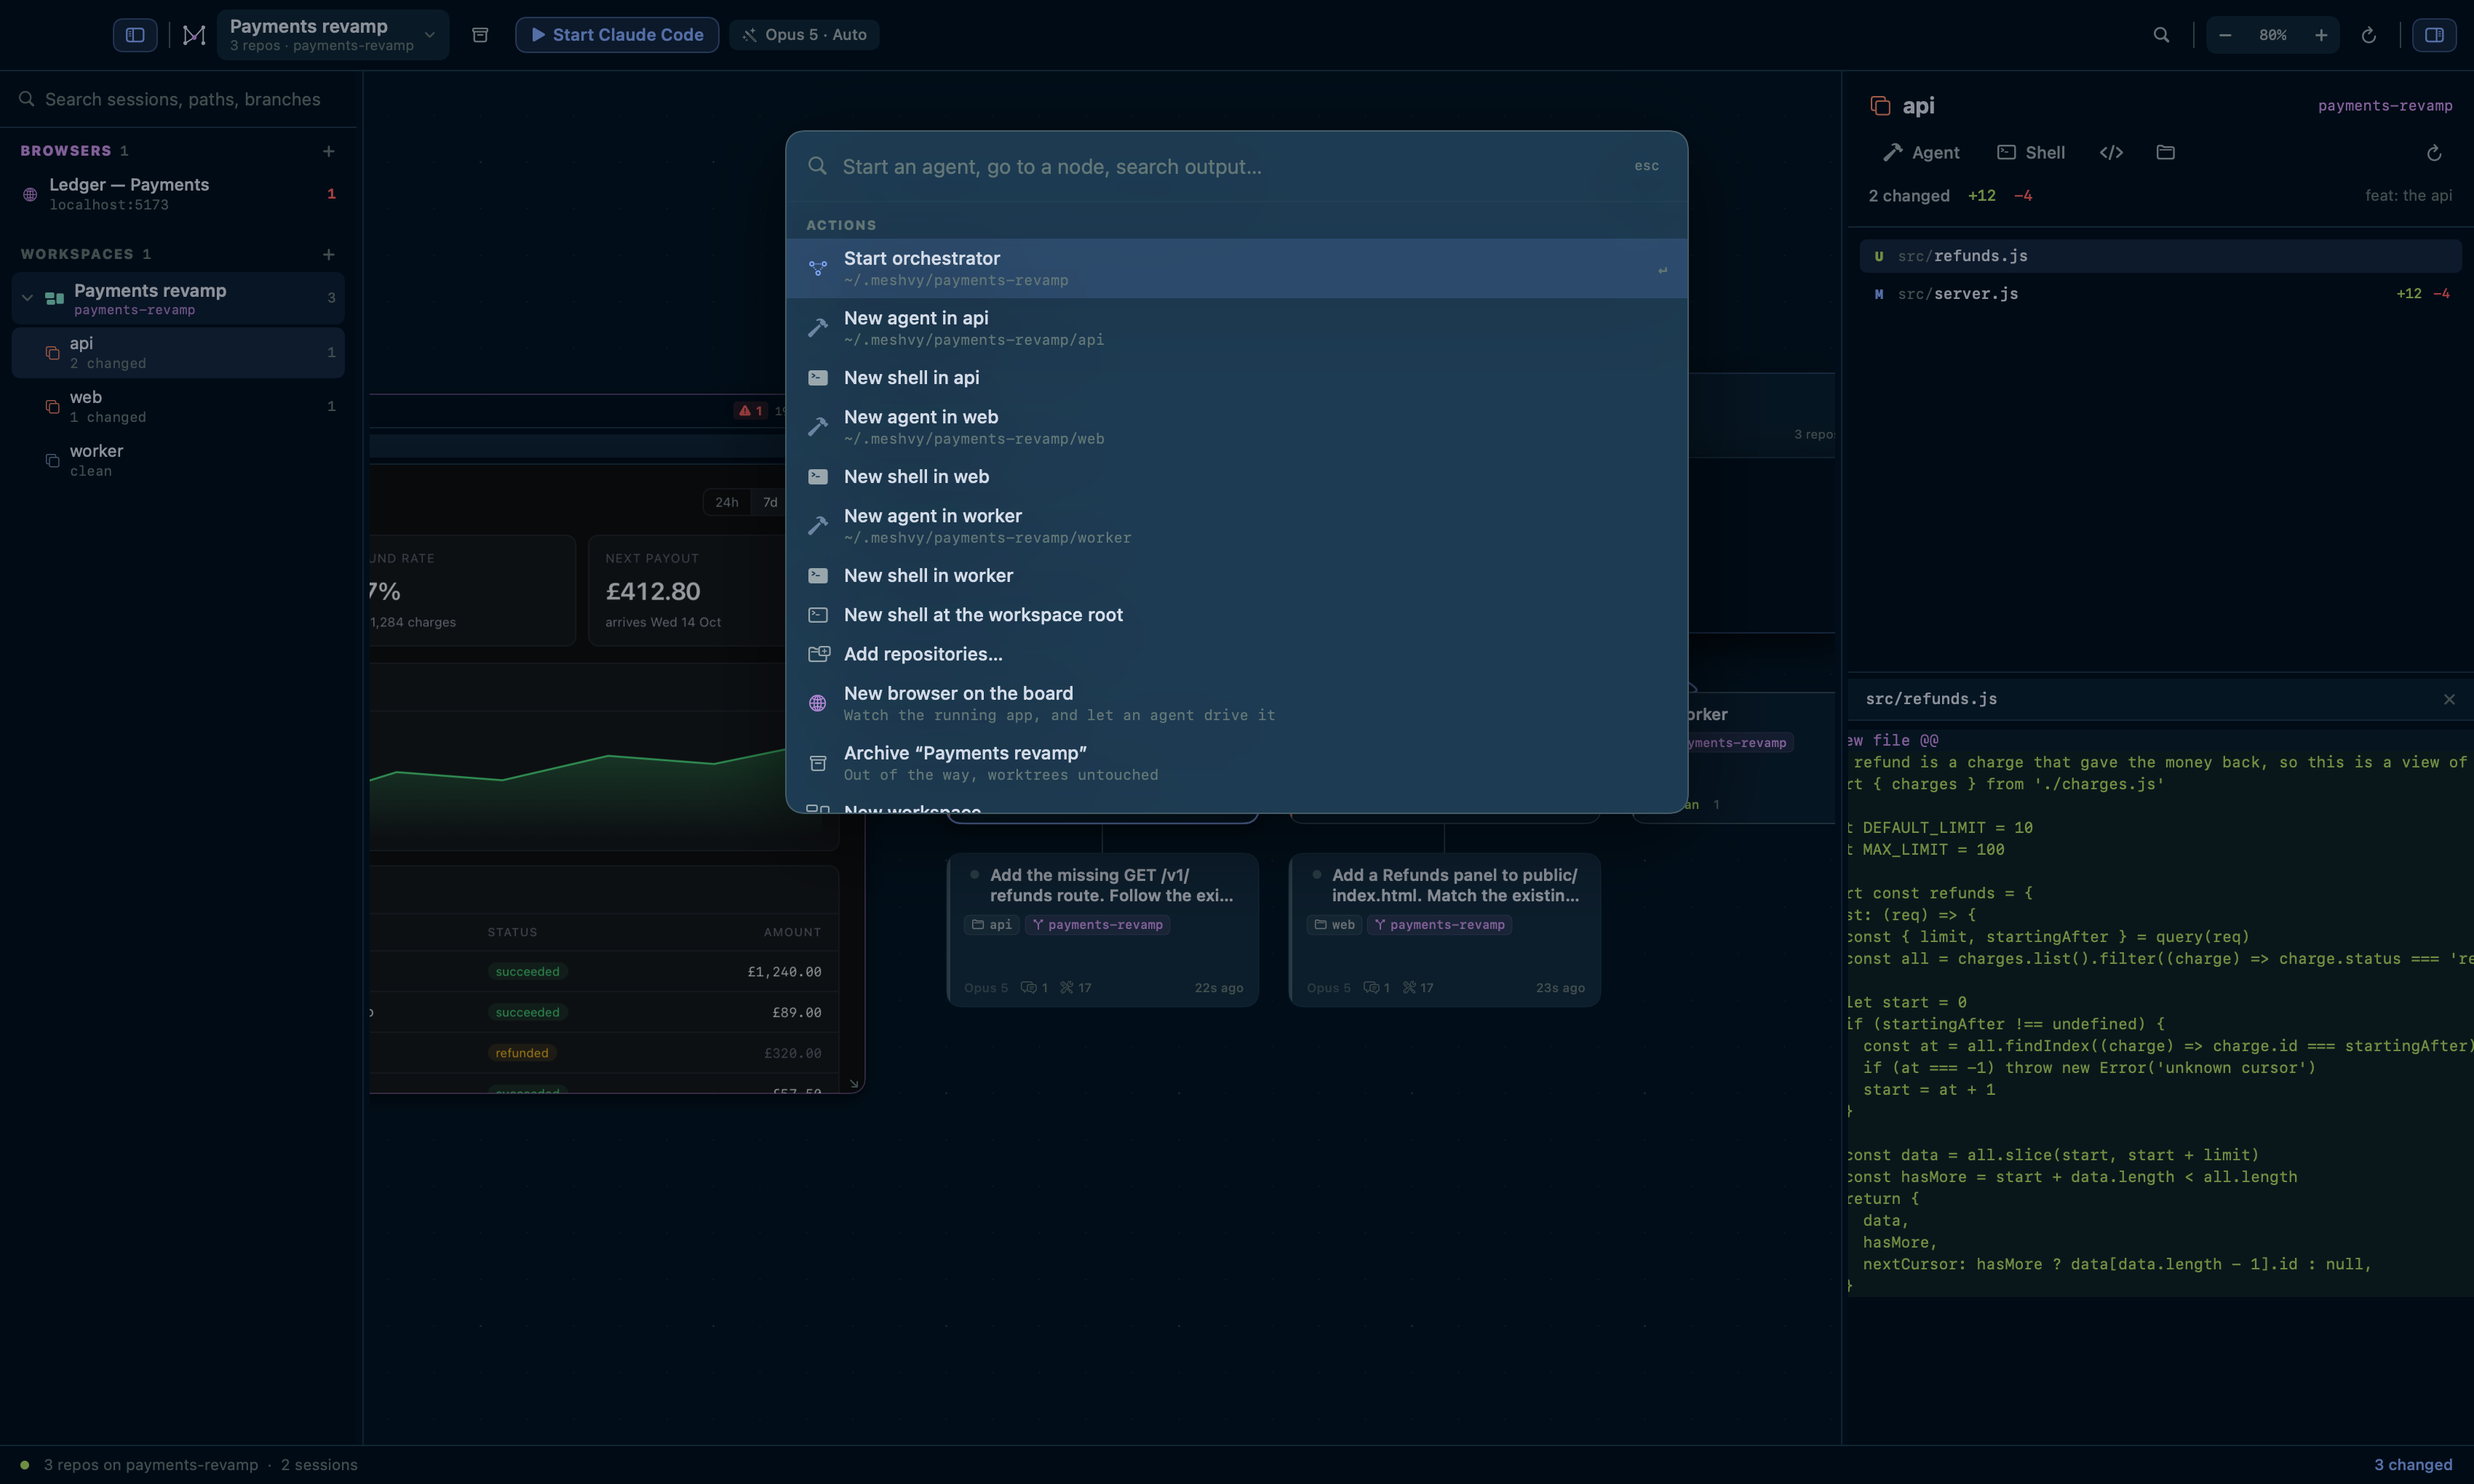
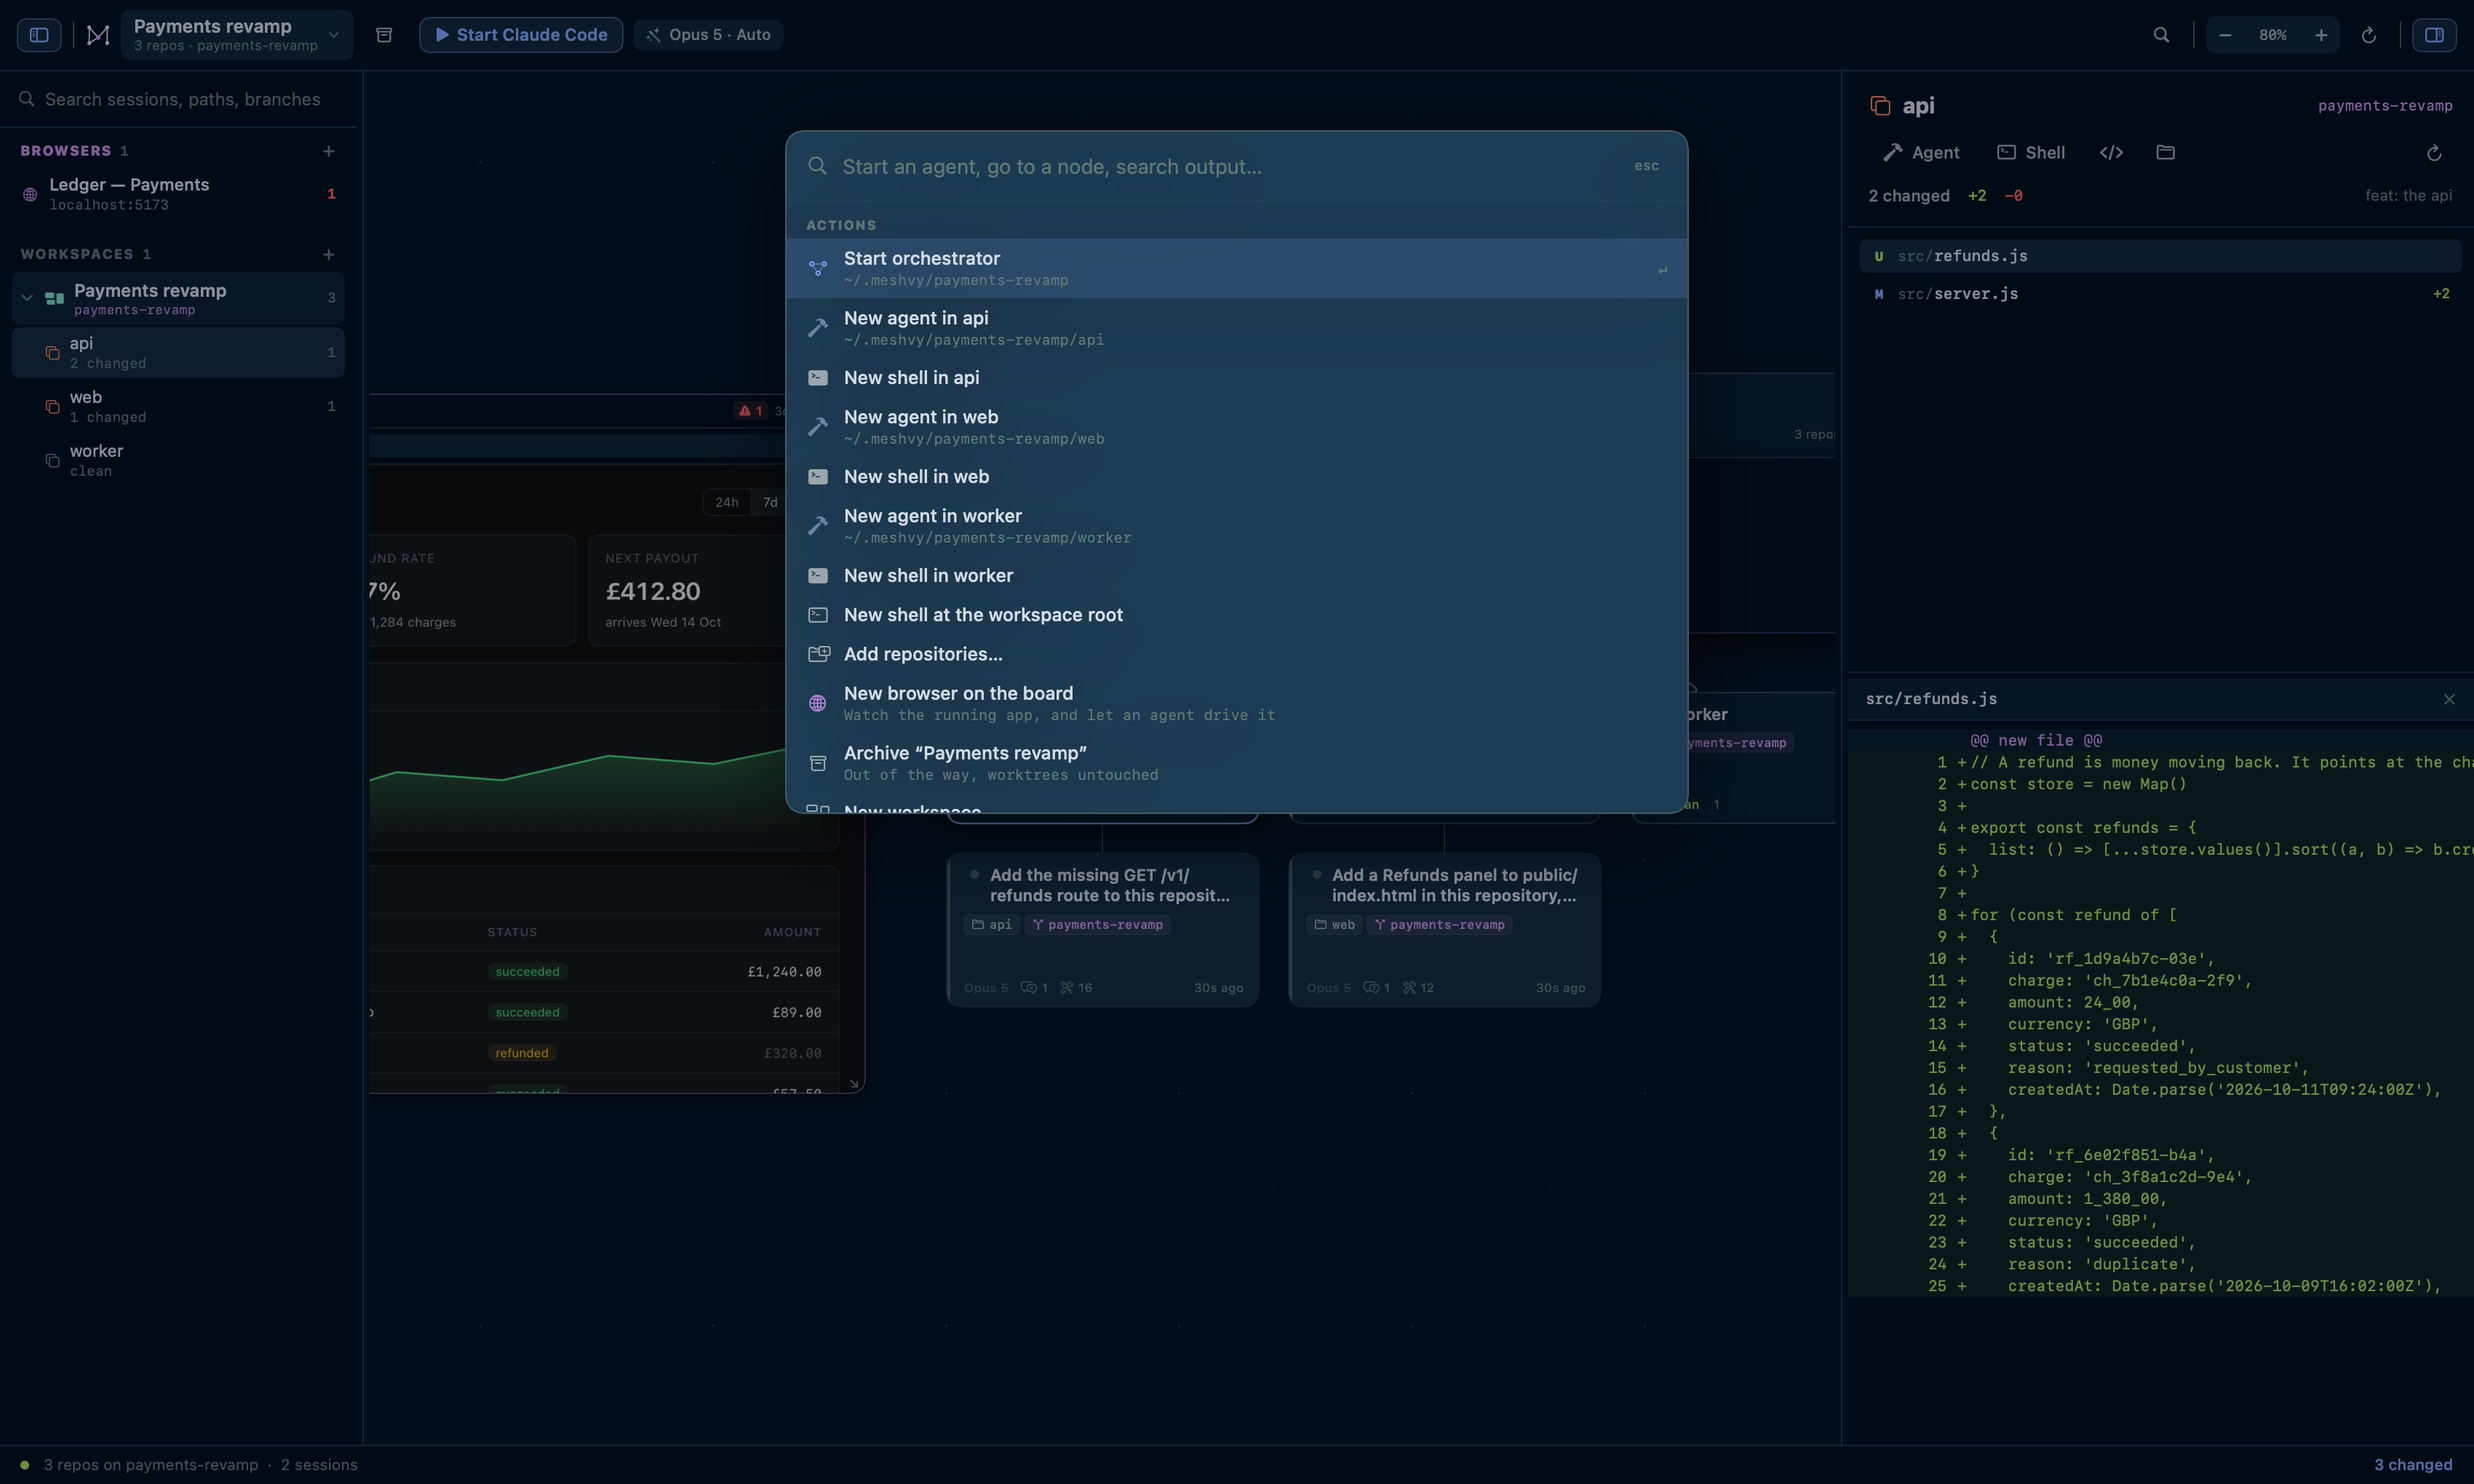
fix: no gutter in a snapshot, where there are no traffic lights
Every screenshot opened with 78pt of empty bar in the top left, before the
sidebar toggle. That gutter is held for the window's traffic lights, and
`WindowChrome` can only answer for a window: an `ImageRenderer` pass has
none, so it went on reporting the lights as visible and the bar went on
keeping room for buttons that were never drawn.

The bar now takes the same 12pt inset it uses in full screen, where the
lights really are gone. A window is unaffected — `--chrometest` still
measures the first control at 77pt with them shown, 11pt without.

Shots retaken. The sidebar in the last set also carried a stray workspace
that `--browsertest` had left on the board.

diff --git a/Sources/Meshvy/UI/RootView.swift b/Sources/Meshvy/UI/RootView.swift
@@ -171,6 +171,7 @@ struct EmptyStateView: View {
 // MARK: - Top bar
 
 private struct TopBar: View {
+    @Environment(\.meshvySnapshotMode) private var isSnapshot
     @Bindable var store: MeshvyStore
     @Binding var sheet: MeshvySheet?
     @State private var confirmingArchive = false
@@ -183,8 +184,12 @@ private struct TopBar: View {
 
     /// The traffic lights run to x=69, so the first control sits just past them
     /// and the panel toggles read as the two ends of the bar. In full screen
-    /// the lights go away and the gutter with them.
-    private var leadingInset: CGFloat { chrome.trafficLightsVisible ? 78 : 12 }
+    /// the lights go away and the gutter with them — as it does in a snapshot,
+    /// which has no window and so no lights to leave room for. `WindowChrome`
+    /// cannot tell: its reading is of a window, and there is not one.
+    private var leadingInset: CGFloat {
+        isSnapshot || !chrome.trafficLightsVisible ? 12 : 78
+    }
 
     var body: some View {
         HStack(spacing: 0) {

diff --git a/CHANGELOG.md b/CHANGELOG.md
@@ -34,6 +34,12 @@
   and all. The stand-in for a `ScrollView` was given `.top` alignment, which
   says nothing about the horizontal, so anything wider than its panel — a diff,
   which deliberately does not wrap — was centred and clipped at both ends.
+- Every screenshot opened with 78pt of nothing in the top left. The bar keeps
+  that much clear for the traffic lights, and `WindowChrome` can only answer
+  for a window — an `ImageRenderer` pass has none, so it kept saying the lights
+  were there and the gutter was held for buttons that could not be drawn. A
+  snapshot now takes the same 12pt inset the app uses in full screen, where
+  there are no lights either. Nothing changes in a window.
 - **The app still said `~/.forge` in three places** — the empty state, the New
   workspace sheet and the path preview under every repository you pick — four
   releases after the rename. Workspaces have been checked out under `~/.meshvy`
